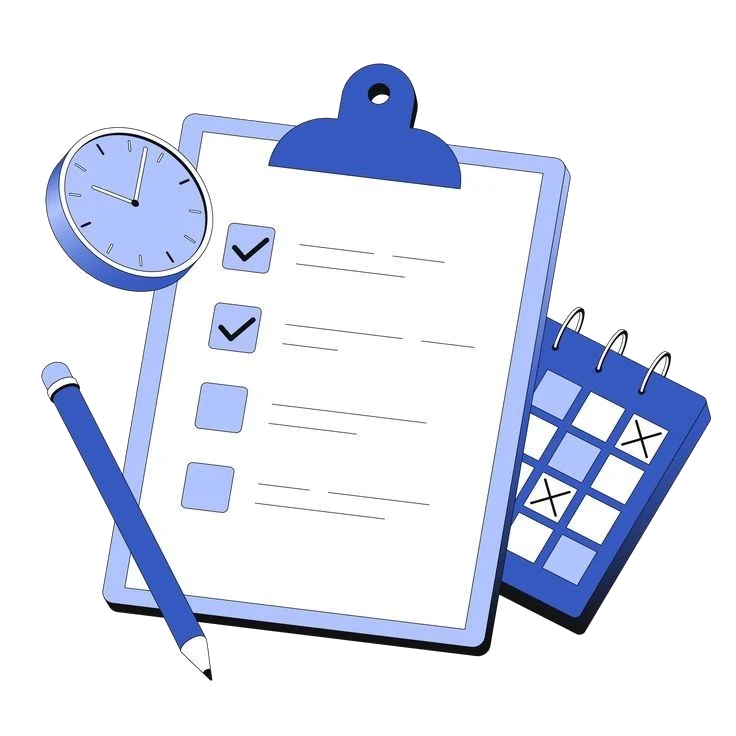
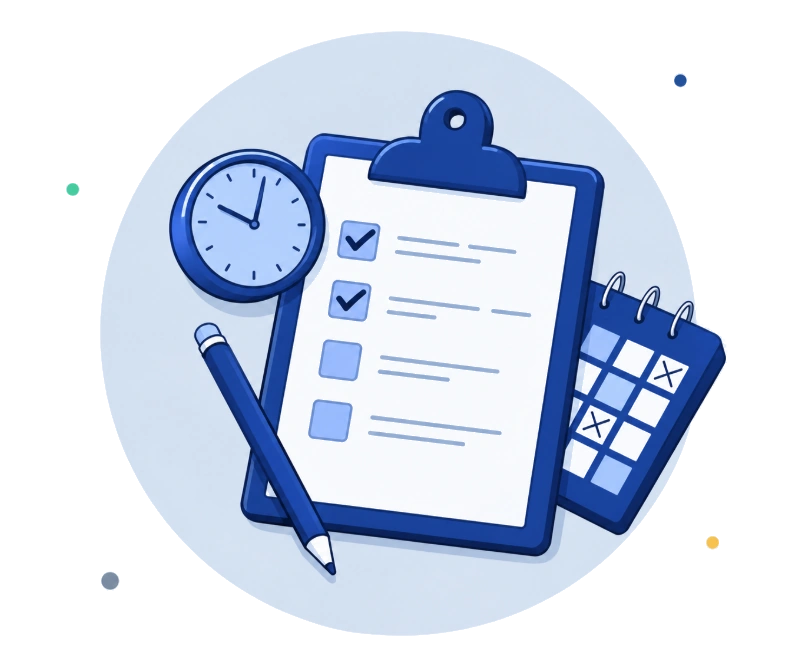
Security enforcement and Anti-spam email template

diff --git a/client/src/components/Landing.css b/client/src/components/Landing.css
@@ -268,31 +268,36 @@
   min-height: 500px;
 }
 
-/* Pale circular backdrop behind the hero illustration */
-.hero-pale-circle {
-  position: absolute;
-  width: 500px;
-  height: 500px;
-  border-radius: 50%;
-  background: linear-gradient(135deg, #d4dce9 0%, #e0e5ef 100%);
-  top: 50%;
-  left: calc(50% - 25px);
-  transform: translate(-50%, -50%);
-  z-index: 1;
+/* Redundant pale circular backdrop and dots hidden as they are built into the illustration */
+.hero-pale-circle,
+.hero-decor-dot {
+  display: none;
 }
 
 .hero-illustration {
   position: relative;
-  left: 48px;
+  left: 0;
   z-index: 3;
-  width: min(450px, calc(100vw - 48px));
+  width: min(540px, 100%);
+  max-width: 540px;
+  margin: 0 auto;
+  display: flex;
+  align-items: center;
+  justify-content: center;
+  transition: transform 0.3s ease;
+}
+
+.hero-illustration:hover {
+  transform: translateY(-4px);
 }
 
 .hero-illustration img {
   display: block;
   width: 100%;
   height: auto;
-  filter: contrast(1.22) saturate(1.04);
+  max-height: 540px;
+  object-fit: contain;
+  filter: drop-shadow(0 14px 32px rgba(16, 45, 116, 0.10));
 }
 
 /* Scattered Decorative Dots */
@@ -1523,7 +1528,8 @@
 
   .hero-illustration {
     width: min(450px, calc(90vw - 24px));
-    left: 24px;
+    left: 0;
+    margin: 0 auto;
   }
 
   .float-card-1 {

diff --git a/client/src/components/Landing.jsx b/client/src/components/Landing.jsx
@@ -86,15 +86,13 @@ export default function Landing() {
           </div>
 
           <div className="landing-hero-right">
-            <div className="hero-pale-circle" />
-
-            <div className="hero-decor-dot dot-1" />
-            <div className="hero-decor-dot dot-2" />
-            <div className="hero-decor-dot dot-3" />
-            <div className="hero-decor-dot dot-4" />
-
             <div className="hero-illustration">
-              <img src={heroAcademicIllustration} alt="" fetchPriority="high" decoding="async" />
+              <img
+                src={heroAcademicIllustration}
+                alt="Past papers, assignments and academic revision illustration"
+                fetchPriority="high"
+                decoding="async"
+              />
             </div>
           </div>
         </div>
